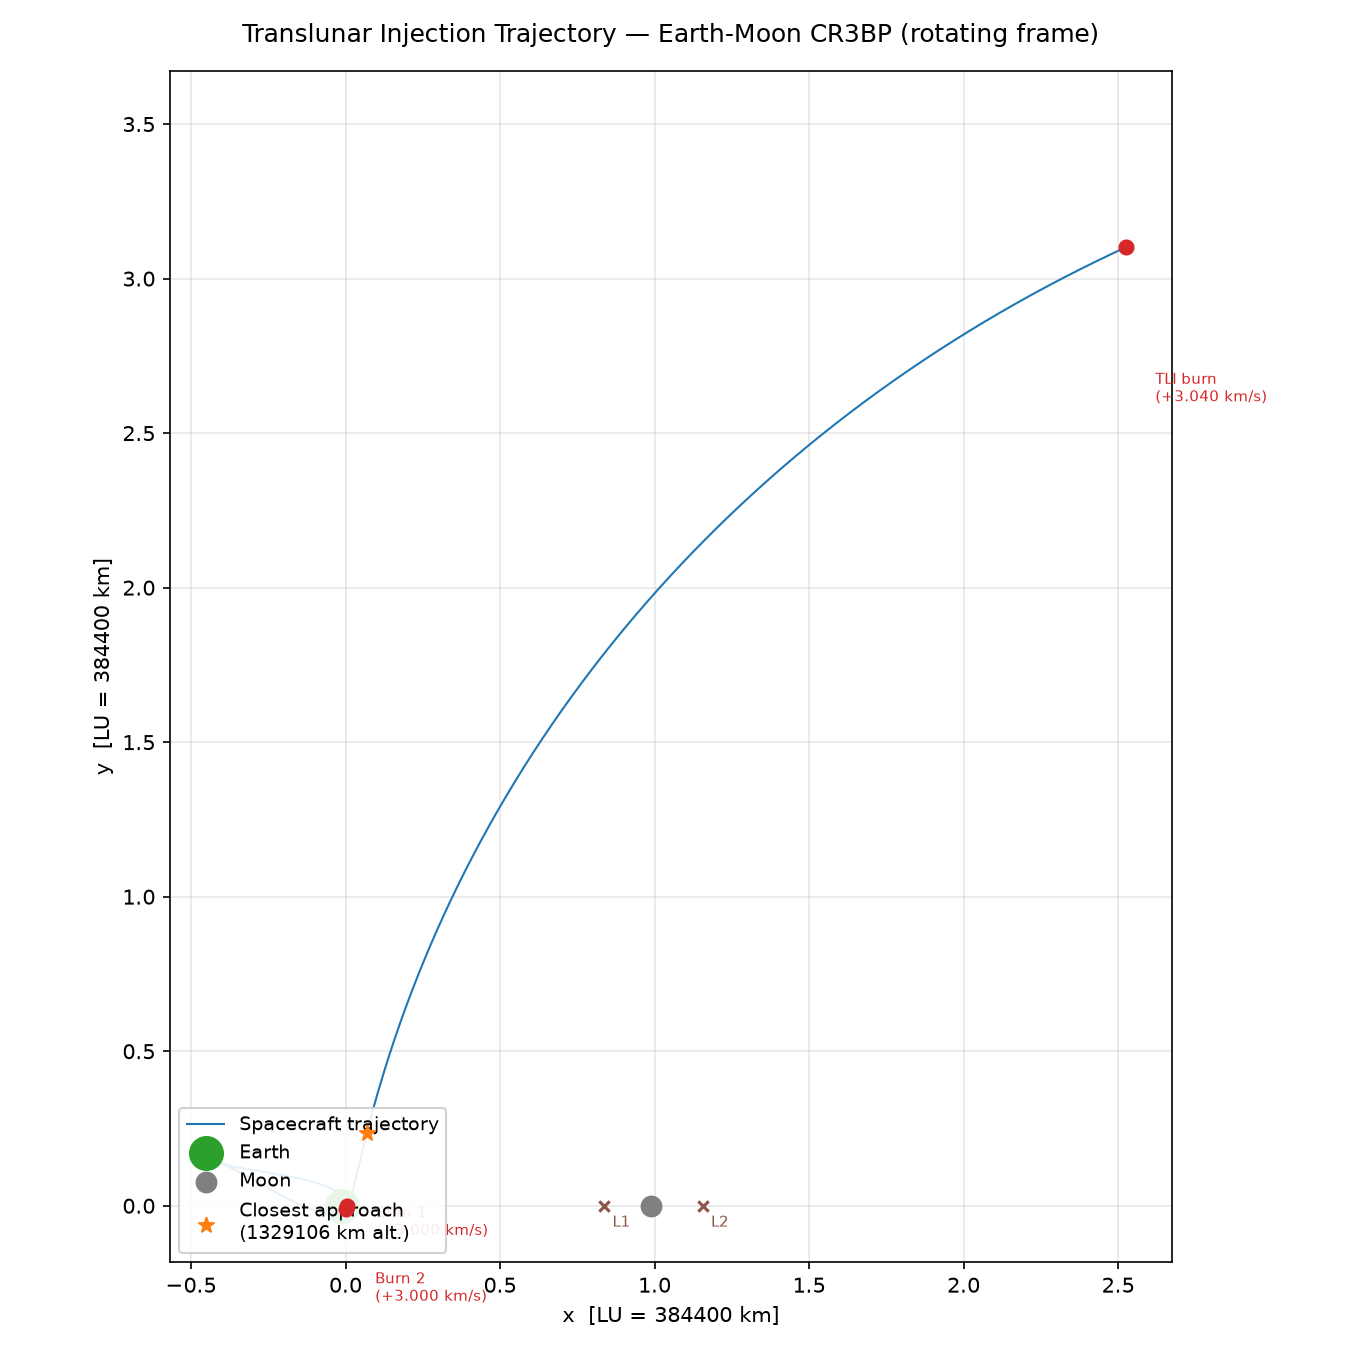
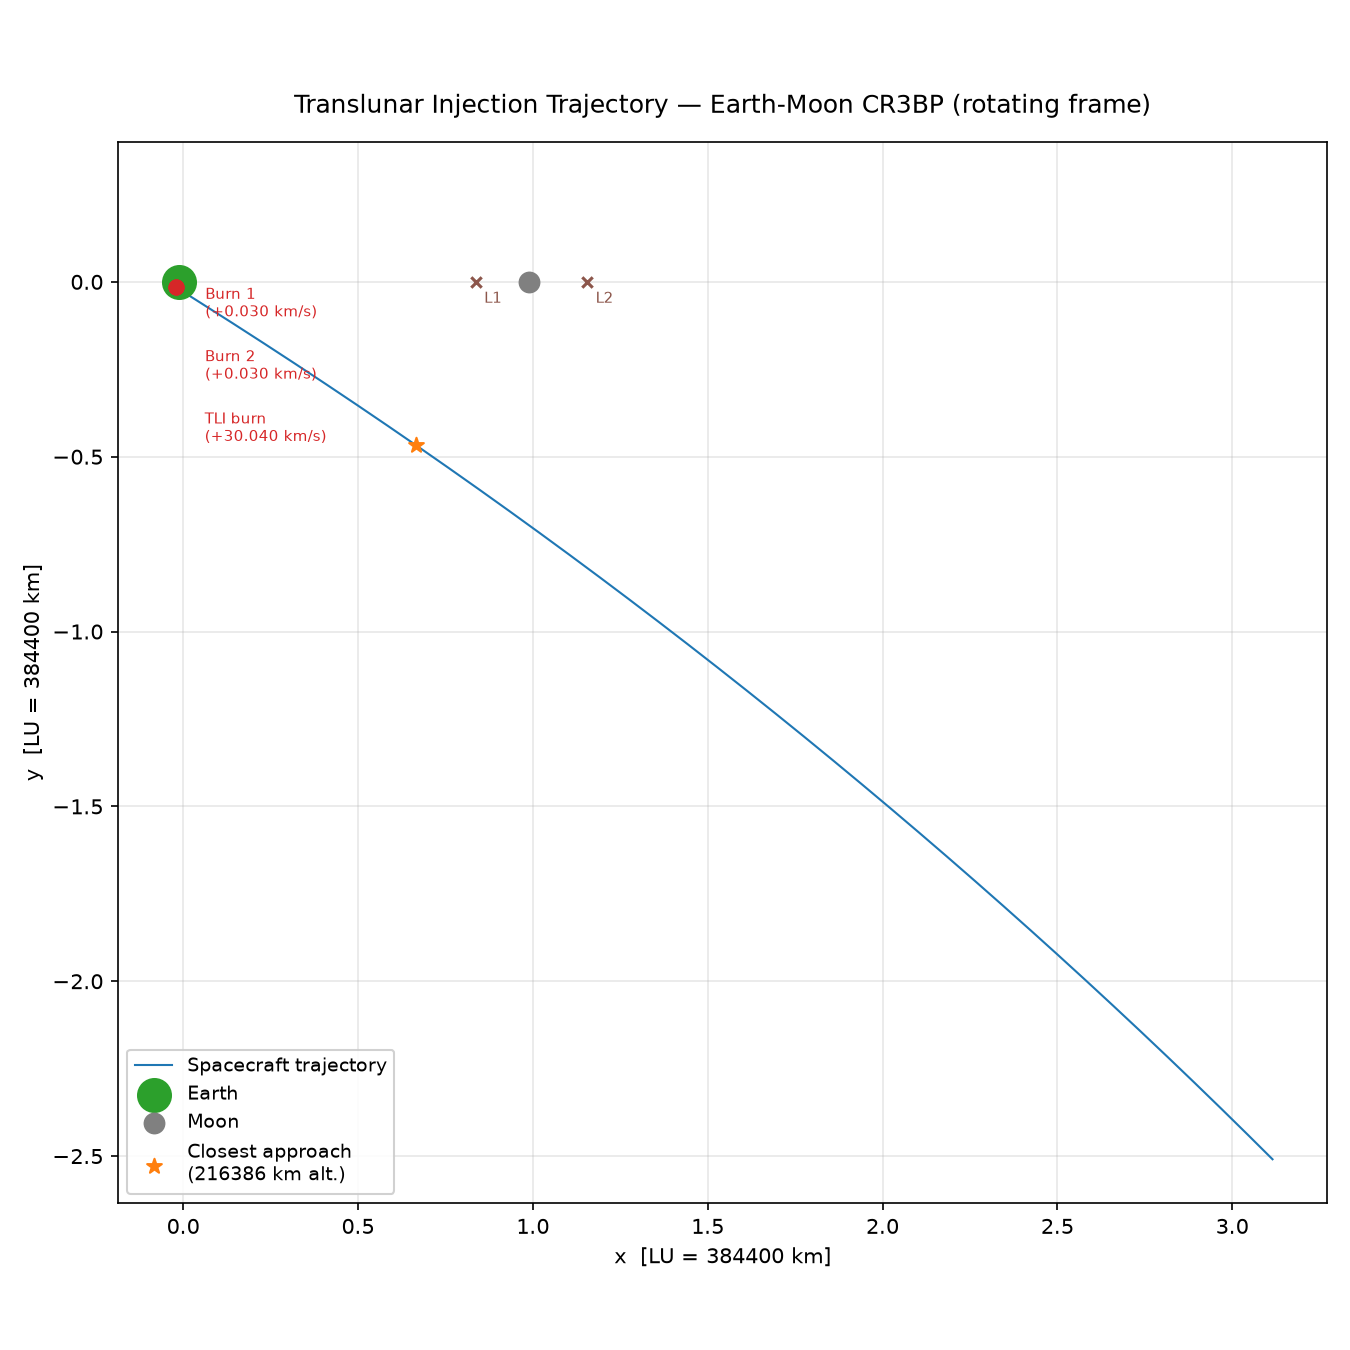
More documentation and small changes to code

diff --git a/aiaa-dynamics/TLIs.py b/aiaa-dynamics/TLIs.py
@@ -11,7 +11,7 @@
 PROGRAM
 -------------
 
-Simulates a translunar injection (TLI) sequence based on a seriers of user inputs 
+Simulates a translunar injection (TLI) sequence based on a series of user inputs 
 
 
 PHYSICS
@@ -208,13 +208,15 @@ def estimate_period_nd(state, mu):
 
 
 #######################################
-#    Numba-JIT PROPOGATION KERNALS    #
-#   
+#    NUMBA-JIT PROPOGATION KERNALS    #
+#######################################
 
 # (cache = True) saves compiled result to disk to save time
 @njit(cache=True)
 def eom_nb(s, mu):
-    """CR3BP state derivative [vx, vy, vz, ax, ay, az] (compiled)."""
+
+    """CR3BP state derivative [vx, vy, vz, ax, ay, az] (compiled)"""
+
     x, y, z, vx, vy, vz = s
     r1 = np.sqrt((x + mu) ** 2 + y ** 2 + z ** 2)
     r2 = np.sqrt((x - 1.0 + mu) ** 2 + y ** 2 + z ** 2)
@@ -232,22 +234,27 @@ def eom_nb(s, mu):
 
 @njit(cache=True)
 def rk4_step_nb(s, dt, mu):
-    """One classical Runge-Kutta 4 step (compiled)."""
-    k1 = eom_nb(s, mu)
-    k2 = eom_nb(s + 0.5 * dt * k1, mu)
-    k3 = eom_nb(s + 0.5 * dt * k2, mu)
-    k4 = eom_nb(s + dt * k3, mu)
+
+    """Classical Runge-Kutta 4 step (basically adapative step changer for trajectory projection) (compiled)."""
+
+    k1 = eom_nb(s, mu)                       # Step 1
+    k2 = eom_nb(s + 0.5 * dt * k1, mu)       # Step 2
+    k3 = eom_nb(s + 0.5 * dt * k2, mu)       # Step 3
+    k4 = eom_nb(s + dt * k3, mu)             # Step 4
+
     return s + (dt / 6.0) * (k1 + 2.0 * k2 + 2.0 * k3 + k4)
 
 
 @njit(cache=True)
 def propagate_nb(s0, dt, nsteps, mu, r_earth, r_moon, r_escape):
-    """Fixed-step RK4 propagation with event checks, entirely compiled.
+
+    """Fixed-step RK4 propagation with event checks at every step (compiled)
 
     Returns (traj, n_valid, code): traj has nsteps+1 rows but only the first
-    n_valid+1 are meaningful; code = 0 (ran to completion), 1 (Earth
-    impact), 2 (Moon impact), 3 (escape). The stopping row is included.
+    n_valid+1 are meaningful; The rest is code for ending the simulation. 
+    The stopping row is included.
     """
+
     traj = np.empty((nsteps + 1, 6))
     traj[0] = s0
     s = s0.copy()
@@ -257,18 +264,23 @@ def propagate_nb(s0, dt, nsteps, mu, r_earth, r_moon, r_escape):
         r1 = np.sqrt((s[0] + mu) ** 2 + s[1] ** 2 + s[2] ** 2)
         r2 = np.sqrt((s[0] - 1.0 + mu) ** 2 + s[1] ** 2 + s[2] ** 2)
         rr = np.sqrt(s[0] ** 2 + s[1] ** 2 + s[2] ** 2)
+
+        # Event checks
         if r1 < r_earth:
-            return traj, i + 1, 1
+            return traj, i + 1, 1 # Code = 1 (Earth impact)
         if r2 < r_moon:
-            return traj, i + 1, 2
+            return traj, i + 1, 2 # Code = 2 (Moon impact)
         if rr > r_escape:
-            return traj, i + 1, 3
-    return traj, nsteps, 0
+            return traj, i + 1, 3 # Code = 3 (escape from system)
+        
+    return traj, nsteps, 0        # Code = 0 (ran to completion)
 
 
 @njit(cache=True)
 def jacobi_series_nb(traj, mu):
+
     """Jacobi constant at every row of an (N, 6) trajectory (compiled)."""
+    
     n = traj.shape[0]
     out = np.empty(n)
     for i in range(n):
@@ -277,25 +289,29 @@ def jacobi_series_nb(traj, mu):
         r2 = np.sqrt((x - 1.0 + mu) ** 2 + y ** 2 + z ** 2)
         out[i] = (x ** 2 + y ** 2 + 2.0 * (1.0 - mu) / r1 + 2.0 * mu / r2
                   - (vx ** 2 + vy ** 2 + vz ** 2))
+        
     return out
 
 
-_EVENT_NAMES = [None, "earth_impact", "moon_impact", "escape"]
+_EVENT_NAMES = [None, "earth_impact", "moon_impact", "escape"] # From propagate_nb function
 R_ESCAPE = 4.0           # LU from the barycenter, same as dynamics.propagate
 MAX_DT_ND = 1.0e-5       # RK4 step ceiling (about 3.75 s); keeps C conserved to ~1e-8
 SOLVER = "numba"         # set from --solver in main()
 
 
 def propagate_segment(state, tf_nd, mu, n_points, rtol=1e-10, atol=1e-10):
+
     """Propagate `state` forward by tf_nd. Returns (t, traj (N, 6), termination).
 
     With the numba solver the whole path is computed at a fixed step of at
     most MAX_DT_ND and every step is kept (n_points is ignored); with the
-    scipy solver `dynamics.propagate` is used and sampled at n_points.
+    scipy solver `dynamics.propagate' (from the dynamics.py file) is used and sampled at n_points.
     """
     if SOLVER == "scipy":
+
         t, S, termination = dyn.propagate(state, tf_nd, mu=mu, n_points=n_points,
                                            rtol=rtol, atol=atol)
+        
         return t, S.T, termination
 
     nsteps = max(int(np.ceil(tf_nd / MAX_DT_ND)), 10)
@@ -306,8 +322,8 @@ def propagate_segment(state, tf_nd, mu, n_points, rtol=1e-10, atol=1e-10):
     return t, traj[: n_valid + 1], _EVENT_NAMES[code]
 
 
-def propagate_until_next_perigee(state, mu, window_lo=0.5, window_hi=1.3,
-                                  min_period_nd=0.05, points_per_period=1500):
+def propagate_until_next_perigee(state, mu, window_lo=0.5, window_hi=1.3,min_period_nd=0.05, points_per_period=1500):
+    
     """Propagate from `state` (assumed at/near perigee) forward by roughly
     one orbit and locate the next perigee as the minimum Earth range within
     a search window of [window_lo, window_hi] x (the two-body period
@@ -326,7 +342,9 @@ def propagate_until_next_perigee(state, mu, window_lo=0.5, window_hi=1.3,
     of the starting point, which is trivially a local minimum when `state`
     is itself already at perigee) finds the genuine next perigee crossing
     regardless of how small that oscillation is.
+
     """
+
     T_est = max(estimate_period_nd(state, mu), min_period_nd)
     total_t = window_hi * T_est
     n_points = max(int(points_per_period * window_hi), 300)
@@ -341,12 +359,17 @@ def propagate_until_next_perigee(state, mu, window_lo=0.5, window_hi=1.3,
     return traj[: idx + 1], idx, t[: idx + 1]
 
 
-# ---------------------------------------------------------------------------
-# Main simulation driver
-# ---------------------------------------------------------------------------
+################################
+#    Main simulation driver    #
+################################
+
+
 def run_simulation(parking_altitude_km, num_intermediate_burns,
                     intermediate_dv_kms, tli_dv_kms, theta0_deg,
                     coast_days, coast_steps=4000):
+
+    ''' Main function to '''
+    
     mu = MU
 
     state0 = circular_parking_state(parking_altitude_km, np.deg2rad(theta0_deg), mu)
@@ -355,7 +378,7 @@ def run_simulation(parking_altitude_km, num_intermediate_burns,
     times_nd = [np.array([0.0])]
     cum_t_nd = 0.0
 
-    burn_points = []     # (x, y, label) for plotting, in nondim coords
+    burn_points = []     # (x, y, label) for plotting, in nondimemsional coordinates 
     burn_log = []
     burn_times_nd = []   # time (nd) at which each burn occurs
     burn_jacobi = []     # (C_before, C_after) for each burn, in that order
@@ -372,9 +395,11 @@ def run_simulation(parking_altitude_km, num_intermediate_burns,
     orbit_is_circular = True
 
     def _record_segment(seg, t_seg):
+
         """Append a propagated segment (sharing its first point with the
         previous one) to the trajectory/time history, using the actual
         time points dynamics.propagate produced for this segment."""
+        
         nonlocal cum_t_nd
         full_traj.append(seg[1:])
         seg_t = cum_t_nd + t_seg[1:]
@@ -483,7 +508,7 @@ def plot_trajectory(results, out_path="translunar_trajectory.png"):
     # Spacecraft trajectory (nondim coords -> plot directly, label in LU)
     ax.plot(traj[:, 0], traj[:, 1], lw=1.0, color="tab:blue", label="Spacecraft trajectory")
 
-    # Earth and Moon (rotating frame: fixed positions)
+    # Earth and Moon (rotating frame: fixed positions) (size not to scale)
     ax.scatter([-mu], [0], s=250, color="tab:green", zorder=5, label="Earth")
     ax.scatter([1 - mu], [0], s=90, color="gray", zorder=5, label="Moon")
 
@@ -522,7 +547,7 @@ def plot_trajectory(results, out_path="translunar_trajectory.png"):
 
     # Give the burn-label callouts room above the trajectory
     ymin, ymax = ax.get_ylim()
-    ax.set_ylim(ymin, ymax + 0.12 * (ymax - ymin))
+    ax.set_ylim(ymin, ymax * (ymax - ymin))
 
     fig.tight_layout()
     fig.savefig(out_path, dpi=150)
@@ -536,19 +561,19 @@ def plot_trajectory(results, out_path="translunar_trajectory.png"):
 
 _INPUTS = [
 
-    ("parking_altitude_km", "--parking-altitude-km", float, 300.0,
+    ("parking_altitude_km", "--parking-altitude-km", float , 300 ,
      "Parking orbit altitude [km] [Example: 200.0]", lambda v: v > 0),
 
-    ("num_intermediate_burns", "--num-intermediate-burns", int, 2,
+    ("num_intermediate_burns", "--num-intermediate-burns", int , 2 ,
      "Number of intermediate burns before TLI [Example: 2]", lambda v: v >= 0),
 
-    ("intermediate_dv_kms", "--intermediate-dv-kms", float, 0.03,
+    ("intermediate_dv_kms", "--intermediate-dv-kms", float , 0.03 ,
      "Delta-v of each intermediate burn [km/s] [Example: 0.03]", lambda v: v >= 0),
 
-    ("tli_dv_kms", "--tli-dv-kms", float, 3.04,
+    ("tli_dv_kms", "--tli-dv-kms", float , 3.04 , 
      "Delta-v of the final TLI burn [km/s] [Example: 3.04]", lambda v: v > 0),
 
-    ("theta0_deg", "--theta0-deg", float, 242.0,
+    ("theta0_deg", "--theta0-deg" , float, 240.0 ,
      "Starting angle in parking orbit [deg] [Example: 242]\n"
      "(think top-down 2D Earth view with angle being centered at Earth's core)", lambda v: True),
 
@@ -562,7 +587,7 @@ OUT_FILE = "translunar_trajectory.png"
 
 def prompt_value(text, default, typ, valid):
 
-    """Check and returns only good input and if bad, asks for input again"""
+    """Check and returns valid input and if invalid, asks for input again"""
     
     while True:
 
@@ -583,9 +608,11 @@ def prompt_value(text, default, typ, valid):
 
 
 def parse_args():
+
     """Collect inputs. Any value not given as a command-line flag is asked
     for interactively (press Enter to accept the shown default). Pass
     --no-prompt to skip all questions and use defaults/flags only."""
+    
     p = argparse.ArgumentParser(
         description="Simulate a multi-burn translunar injection in the Earth-Moon CR3BP. "
                     "Values not given as flags are prompted for interactively."
